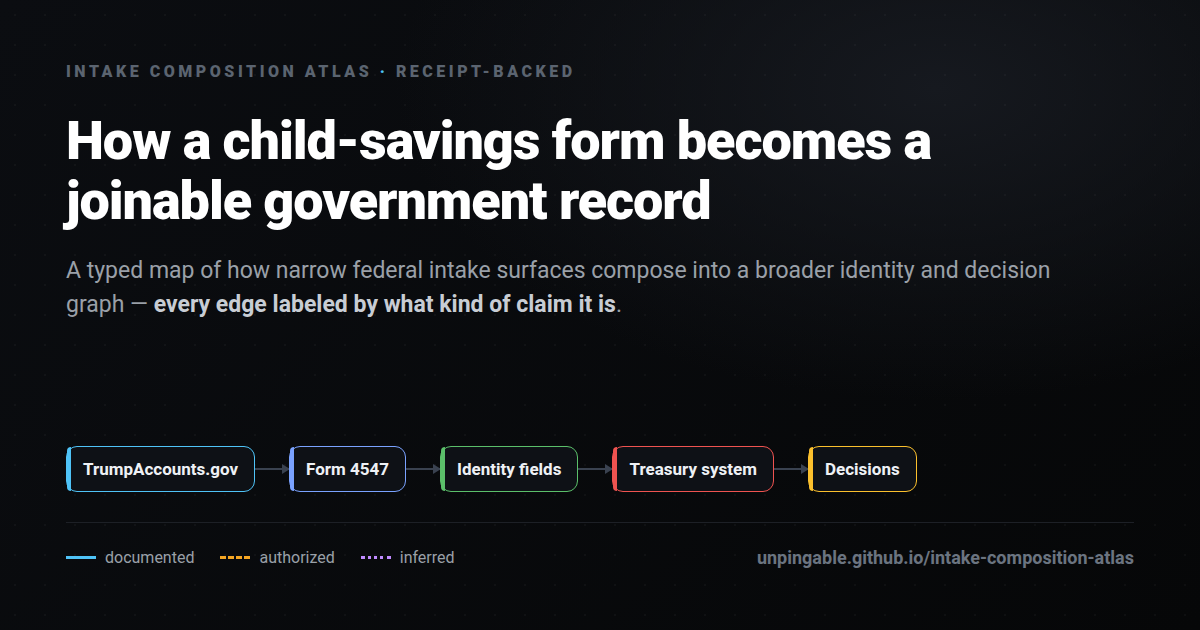
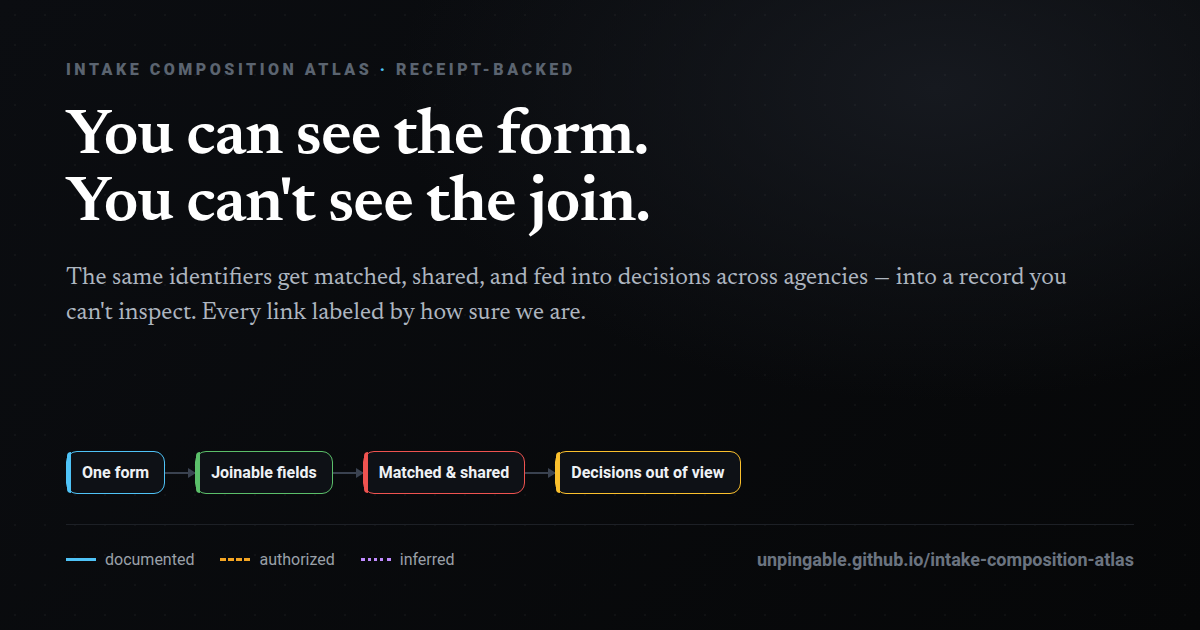
splash: a front door, not the basement (rung-1/2 hook over the method)
A tech friend said "I don't get it" — the front door was reading like the proof
basement. Add a public-facing entry layer above the methodical content, without
dumbing down the artifact underneath.

- hook: "You can see the form. You can't see the join." (serif, plain).
- a dead-simple 3-beat visual: one form -> agencies join records -> decisions out
  of view (consequence beat tinted). The whole gospel in one glance.
- the "What this refuses to claim" brake up front — the epistemic-hygiene line is
  the differentiator (maps only what public records show; labels how sure each link is).
- claim key + cases kept; formal thesis ("effective contestation surface", typed
  receipt-backed map, doctrine) tucked into a <details> for the proceduralists.
- OG card + meta regenerated to the hook (was the case-1 headline).

No data/claim/graph changes — front-door framing only.

diff --git a/docs/index.html b/docs/index.html
@@ -4,33 +4,50 @@
   <meta charset="UTF-8">
   <meta name="viewport" content="width=device-width, initial-scale=1.0">
   <title>Intake Composition Atlas</title>
-  <meta name="description" content="A typed, receipt-backed map of how narrow federal intake surfaces compose into a broader identity and decision graph — every edge labeled by what kind of claim it is.">
+  <meta name="description" content="You can see the form. You can't see the join. A receipt-backed map of how a federal form's data gets matched, shared, and fed into decisions you can't inspect.">
   <meta property="og:type" content="website">
-  <meta property="og:title" content="Intake Composition Atlas">
-  <meta property="og:description" content="What is proven, what is permitted, what is possible — edge by edge.">
+  <meta property="og:title" content="You can see the form. You can't see the join.">
+  <meta property="og:description" content="A receipt-backed map of how narrow federal intake surfaces compose into decisions people can't inspect or contest — every link labeled by how sure we are.">
   <meta property="og:url" content="https://unpingable.github.io/intake-composition-atlas/">
   <meta property="og:image" content="https://unpingable.github.io/intake-composition-atlas/og-image.png">
   <meta property="og:image:width" content="1200">
   <meta property="og:image:height" content="630">
   <meta name="twitter:card" content="summary_large_image">
-  <meta name="twitter:title" content="Intake Composition Atlas">
-  <meta name="twitter:description" content="A typed, receipt-backed map of how narrow federal intake surfaces compose into a broader identity and decision graph.">
+  <meta name="twitter:title" content="You can see the form. You can't see the join.">
+  <meta name="twitter:description" content="A receipt-backed map of how federal intake composes into decisions you can't inspect — every link labeled by how sure we are.">
   <meta name="twitter:image" content="https://unpingable.github.io/intake-composition-atlas/og-image.png">
   <link rel="preconnect" href="https://fonts.bunny.net">
   <link rel="stylesheet" href="https://fonts.bunny.net/css?family=newsreader:400,500,600&display=swap">
   <style>
-    :root { --serif: 'Newsreader', Georgia, 'Times New Roman', serif; }
+    :root { --serif: 'Newsreader', Georgia, 'Times New Roman', serif; --cy: #4fc3f7; }
     *, *::before, *::after { box-sizing: border-box; margin: 0; padding: 0; }
     body {
       font-family: -apple-system, BlinkMacSystemFont, "Segoe UI", Roboto, Helvetica, Arial, sans-serif;
       background: #0a0a0a; color: #e0e0e0; min-height: 100vh;
       display: flex; flex-direction: column; align-items: center;
     }
-    .container { max-width: 880px; width: 100%; padding: 64px 24px; }
-    h1 { font-family: var(--serif); font-size: 38px; font-weight: 600; color: #fff; letter-spacing: -0.01em; margin-bottom: 14px; }
-    .thesis { font-family: var(--serif); font-size: 18px; color: #9aa0a8; line-height: 1.6; margin-bottom: 40px; max-width: 680px; }
-    .claimkey { display: grid; grid-template-columns: repeat(4, 1fr); gap: 12px; margin-bottom: 40px; }
-    .ck { background: #111; border: 1px solid #222; border-radius: 8px; padding: 16px 14px; }
+    .container { max-width: 900px; width: 100%; padding: 60px 24px 56px; }
+    .kicker { font-size: 12px; font-weight: 700; text-transform: uppercase; letter-spacing: 0.16em; color: #5b6470; margin-bottom: 20px; }
+    h1 { font-family: var(--serif); font-size: 44px; font-weight: 600; color: #fff; letter-spacing: -0.015em; line-height: 1.08; margin-bottom: 20px; }
+    .dek { font-family: var(--serif); font-size: 19px; color: #b6bdc7; line-height: 1.5; margin-bottom: 30px; max-width: 720px; }
+
+    /* dead-simple 3-beat visual: the whole gospel in one glance */
+    .flow3 { display: flex; align-items: stretch; gap: 10px; margin-bottom: 34px; }
+    .beat { flex: 1; background: #111418; border: 1px solid #222; border-radius: 11px; padding: 16px 16px; display: flex; flex-direction: column; gap: 9px; }
+    .beat .bn { width: 23px; height: 23px; border-radius: 50%; background: #0c1a20; border: 1px solid #2b5566; color: var(--cy);
+      font-size: 12px; font-weight: 700; display: flex; align-items: center; justify-content: center; }
+    .beat .bt { font-size: 15.5px; color: #e9edf2; font-weight: 600; line-height: 1.3; }
+    .beat-out { border-color: #3a2330; background: #150d11; }
+    .beat-out .bn { background: #241016; border-color: #5a2a3a; color: #ef6a8a; }
+    .beat-out .bt { color: #f1c2cd; }
+    .barrow { align-self: center; color: #39414c; font-size: 22px; flex-shrink: 0; }
+    @media (max-width: 620px) { .flow3 { flex-direction: column; } .barrow { transform: rotate(90deg); } }
+
+    .refused { font-size: 14.5px; color: #b0b6c0; line-height: 1.6; border-left: 2px solid #5a4516; padding: 3px 0 3px 15px; margin-bottom: 22px; max-width: 720px; }
+    .refused strong { color: #f5a623; font-weight: 600; }
+
+    .claimkey { display: grid; grid-template-columns: repeat(4, 1fr); gap: 12px; margin-bottom: 48px; }
+    .ck { background: #111; border: 1px solid #222; border-radius: 8px; padding: 15px 14px; }
     .ck .dot { width: 26px; height: 0; border-top-width: 3px; border-top-style: solid; margin-bottom: 10px; }
     .ck-documented .dot { border-color: #4fc3f7; }
     .ck-authorized .dot { border-color: #f5a623; border-top-style: dashed; }
@@ -38,6 +55,7 @@
     .ck-speculative .dot { border-color: #555; border-top-style: dotted; }
     .ck h3 { font-size: 11px; font-weight: 700; text-transform: uppercase; letter-spacing: 0.08em; color: #fff; margin-bottom: 6px; }
     .ck p { font-size: 12px; color: #888; line-height: 1.5; }
+
     .cases-h { font-size: 12px; font-weight: 700; text-transform: uppercase; letter-spacing: 0.12em; color: #666; margin-bottom: 16px; }
     .cases { display: grid; grid-template-columns: 1fr 1fr; gap: 18px; }
     .case { display: block; background: #111; border: 1px solid #222; border-radius: 10px; padding: 22px 22px 18px;
@@ -50,33 +68,51 @@
     .case h3 { font-family: var(--serif); font-size: 20px; font-weight: 600; color: #fff; line-height: 1.25; margin-bottom: 8px; }
     .case p { font-size: 13.5px; color: #999; line-height: 1.55; margin-bottom: 14px; }
     .case-go { font-size: 13px; font-weight: 600; color: #4fc3f7; }
-    @media (max-width: 640px) { .cases { grid-template-columns: 1fr; } }
     .caption { font-size: 13px; color: #666; margin-top: 14px; font-style: italic; }
-    footer { font-size: 12px; color: #555; line-height: 1.7; margin-top: 48px; border-top: 1px solid #1a1a1a; padding-top: 20px; }
+
+    .method { margin-top: 44px; border-top: 1px solid #1a1a1a; padding-top: 18px; }
+    .method summary { font-size: 13px; color: #888; cursor: pointer; font-weight: 600; list-style: none; }
+    .method summary::before { content: '▸ '; color: #555; }
+    .method[open] summary::before { content: '▾ '; }
+    .method .body { font-size: 13px; color: #7c828c; line-height: 1.7; margin-top: 12px; max-width: 740px; }
+    .method .body a { color: #9aa0a8; }
+
+    footer { font-size: 12px; color: #555; line-height: 1.7; margin-top: 30px; }
     footer a { color: #888; }
-    @media (max-width: 640px) { .claimkey { grid-template-columns: repeat(2, 1fr); } }
+    @media (max-width: 640px) { .claimkey { grid-template-columns: repeat(2, 1fr); } .cases { grid-template-columns: 1fr; } }
   </style>
 </head>
 <body>
   <div class="container">
-    <h1>Intake Composition Atlas</h1>
-    <div class="thesis">
-      Populations exposed to inferences and decisions composed <em>outside their effective
-      contestation surface.</em> Narrow federal intake surfaces — a portal, a single form —
-      compose into a broader identity and decision graph. This is a typed, receipt-backed map of
-      that composition: every edge carries exactly one claim type and a citation to a public
-      record. Sibling to the
-      <a href="https://github.com/unpingable/grid-dependency-atlas" style="color:#4fc3f7">Grid Dependency Atlas</a>.
+    <div class="kicker">Intake Composition Atlas</div>
+    <h1>You can see the form.<br>You can't see the join.</h1>
+    <div class="dek">
+      A federal form looks small — a few fields, one purpose. But the same identifiers can be
+      matched, shared, and fed into decisions across agencies, into a record you can't inspect or
+      contest. This atlas maps that composition, one public receipt at a time.
+    </div>
+
+    <div class="flow3">
+      <div class="beat"><span class="bn">1</span><span class="bt">You submit one form</span></div>
+      <div class="barrow">&rarr;</div>
+      <div class="beat"><span class="bn">2</span><span class="bt">Agencies can join the records</span></div>
+      <div class="barrow">&rarr;</div>
+      <div class="beat beat-out"><span class="bn">3</span><span class="bt">Decisions happen out of view</span></div>
+    </div>
+
+    <div class="refused">
+      <strong>What this refuses to claim:</strong> that any secret or unlawful use exists, or anyone's
+      intent. It maps only what public records show — and labels every link by how sure we are:
     </div>
 
     <div class="claimkey">
       <div class="ck ck-documented"><div class="dot"></div><h3>Documented</h3><p>A public record says the flow exists.</p></div>
-      <div class="ck ck-authorized"><div class="dot"></div><h3>Authorized</h3><p>An instrument permits it; no evidence it occurs.</p></div>
+      <div class="ck ck-authorized"><div class="dot"></div><h3>Authorized</h3><p>A law permits it; no evidence it occurs.</p></div>
       <div class="ck ck-inferred"><div class="dot"></div><h3>Inferred</h3><p>Composition makes it derivable.</p></div>
       <div class="ck ck-speculative"><div class="dot"></div><h3>Speculative</h3><p>Incentive analysis only. Hidden by default.</p></div>
     </div>
 
-    <h2 class="cases-h">Cases</h2>
+    <h2 class="cases-h">The cases</h2>
     <div class="cases">
       <a class="case" href="graph/?case=trump-accounts">
         <span class="case-tag tag-active">Active · new intake surface</span>
@@ -91,11 +127,24 @@
         <span class="case-go">Open case &rarr;</span>
       </a>
     </div>
-    <div class="caption">Each case is a documented-path graphic. Toggle layers to see what is permitted and what is possible — that delta is the finding.</div>
+    <div class="caption">Each case is a documented-path graphic. Toggle the weaker layers to see what's permitted, then what's possible — that delta is the finding.</div>
+
+    <details class="method">
+      <summary>What this is, precisely</summary>
+      <div class="body">
+        Populations exposed to inferences and decisions composed <em>outside their effective
+        contestation surface.</em> A typed, receipt-backed map of federal intake composition: every
+        edge carries exactly one claim type and a citation to a public record. Doctrine —
+        no edge without a receipt; signed is not witnessed; inferred edges show their derivation;
+        no PII; public surfaces only; absence recorded as absence, not concealment. Sibling to the
+        <a href="https://github.com/unpingable/grid-dependency-atlas">Grid Dependency Atlas</a>.
+        Method, receipts, and linter are in the
+        <a href="https://github.com/unpingable/intake-composition-atlas">repository</a>.
+      </div>
+    </details>
 
     <footer>
       The people who bear the consequences cannot see the join.<br>
-      No edge without a receipt. Signed is not witnessed. No PII. Public surfaces only.<br>
       <a href="https://github.com/unpingable/intake-composition-atlas">Source</a> · Apache 2.0
     </footer>
   </div>
